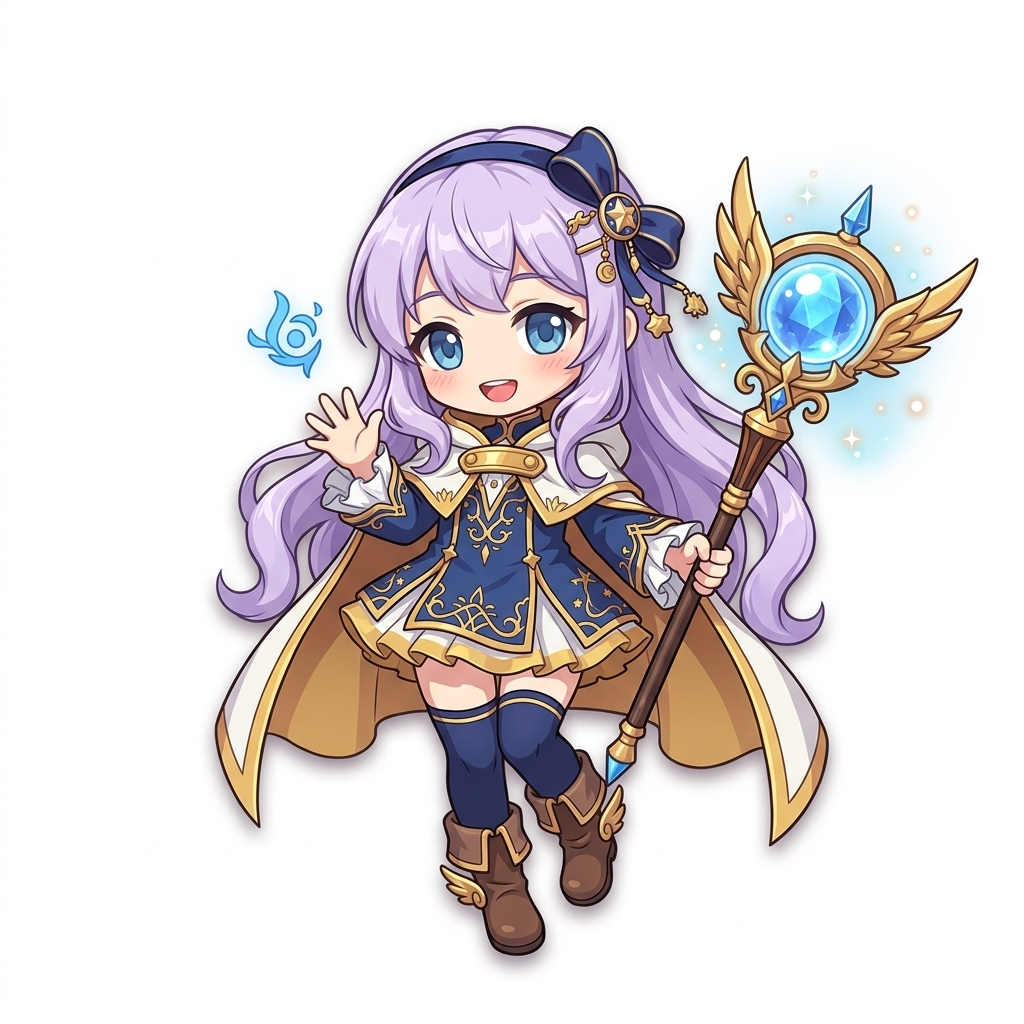
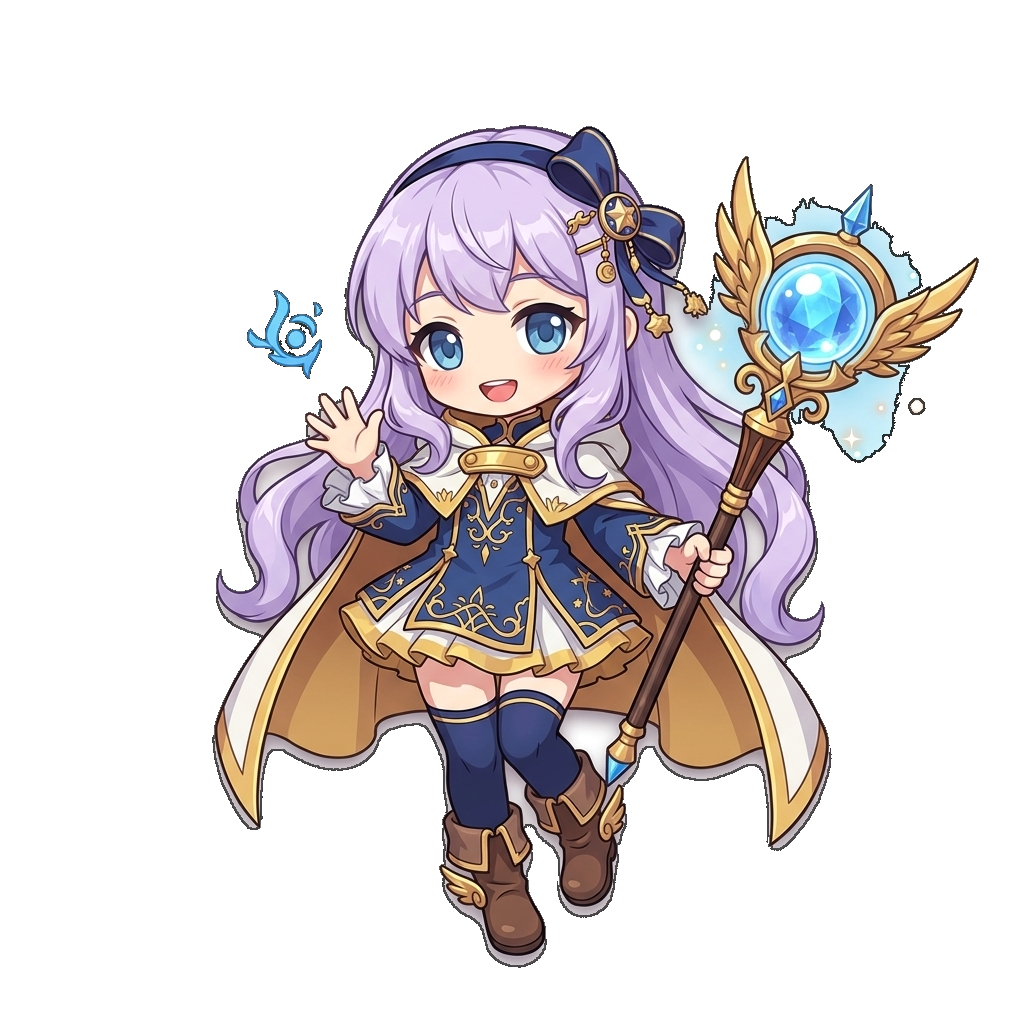
Improve AI character background removal

diff --git a/remove_bg_advanced.cs b/remove_bg_advanced.cs
@@ -1,0 +1,115 @@
+using System;
+using System.Drawing;
+using System.Drawing.Imaging;
+using System.Collections.Generic;
+
+class Program {
+    static void Main(string[] args) {
+        if (args.Length < 2) return;
+        string inPath = args[0];
+        string outPath = args[1];
+
+        using (Bitmap bmp = new Bitmap(inPath)) {
+            int width = bmp.Width;
+            int height = bmp.Height;
+            bool[,] bgMask = new bool[width, height];
+            Queue<Point> q = new Queue<Point>();
+
+            // Enqueue edges
+            for (int x = 0; x < width; x++) {
+                if (IsBg(bmp.GetPixel(x, 0))) { q.Enqueue(new Point(x, 0)); bgMask[x, 0] = true; }
+                if (IsBg(bmp.GetPixel(x, height - 1))) { q.Enqueue(new Point(x, height - 1)); bgMask[x, height - 1] = true; }
+            }
+            for (int y = 0; y < height; y++) {
+                if (IsBg(bmp.GetPixel(0, y))) { q.Enqueue(new Point(0, y)); bgMask[0, y] = true; }
+                if (IsBg(bmp.GetPixel(width - 1, y))) { q.Enqueue(new Point(width - 1, y)); bgMask[width - 1, y] = true; }
+            }
+
+            int[] dx = {-1, 1, 0, 0};
+            int[] dy = {0, 0, -1, 1};
+
+            while (q.Count > 0) {
+                Point p = q.Dequeue();
+                for (int i = 0; i < 4; i++) {
+                    int nx = p.X + dx[i];
+                    int ny = p.Y + dy[i];
+                    if (nx >= 0 && nx < width && ny >= 0 && ny < height && !bgMask[nx, ny]) {
+                        if (IsBg(bmp.GetPixel(nx, ny))) {
+                            bgMask[nx, ny] = true;
+                            q.Enqueue(new Point(nx, ny));
+                        }
+                    }
+                }
+            }
+            
+            // Second pass: remove isolated small non-bg components (noise in background)
+            // Anything that is not bgMask, if it's very small, make it bgMask
+            bool[,] visited = new bool[width, height];
+            for (int x=0; x<width; x++) {
+                for (int y=0; y<height; y++) {
+                    if (!bgMask[x,y] && !visited[x,y]) {
+                        List<Point> comp = new List<Point>();
+                        Queue<Point> cq = new Queue<Point>();
+                        cq.Enqueue(new Point(x,y));
+                        visited[x,y] = true;
+                        
+                        while(cq.Count > 0) {
+                            Point p = cq.Dequeue();
+                            comp.Add(p);
+                            for(int i=0; i<4; i++) {
+                                int nx = p.X+dx[i], ny = p.Y+dy[i];
+                                if(nx>=0 && nx<width && ny>=0 && ny<height && !bgMask[nx,ny] && !visited[nx,ny]) {
+                                    visited[nx,ny] = true;
+                                    cq.Enqueue(new Point(nx,ny));
+                                }
+                            }
+                        }
+                        
+                        if (comp.Count < 50) { // Tiny speck
+                            foreach(var p in comp) bgMask[p.X, p.Y] = true;
+                        }
+                    }
+                }
+            }
+
+            // Defringe
+            for (int x = 0; x < width; x++) {
+                for (int y = 0; y < height; y++) {
+                    if (bgMask[x, y]) {
+                        bmp.SetPixel(x, y, Color.Transparent);
+                    } else {
+                        Color c = bmp.GetPixel(x, y);
+                        int dist = 5;
+                        for(int i=-2; i<=2; i++) {
+                            for(int j=-2; j<=2; j++) {
+                                int nx = x+i, ny = y+j;
+                                if(nx>=0 && nx<width && ny>=0 && ny<height) {
+                                    if (bgMask[nx, ny]) {
+                                        dist = Math.Min(dist, Math.Max(Math.Abs(i), Math.Abs(j)));
+                                    }
+                                }
+                            }
+                        }
+
+                        if (dist <= 2) {
+                            int brightness = (c.R + c.G + c.B) / 3;
+                            if (brightness > 120) {
+                                int alpha = 255 - (brightness - 120) * 255 / 135;
+                                alpha = Math.Max(0, Math.Min(255, alpha));
+                                int darken = Math.Max(50, alpha); // don't make it pitch black
+                                bmp.SetPixel(x, y, Color.FromArgb(alpha, c.R * darken / 255, c.G * darken / 255, c.B * darken / 255));
+                            }
+                        }
+                    }
+                }
+            }
+
+            bmp.Save(outPath, ImageFormat.Png);
+        }
+    }
+
+    static bool IsBg(Color c) {
+        // High tolerance for white/off-white (JPEG compression artifacts)
+        return c.R > 210 && c.G > 210 && c.B > 210;
+    }
+}
